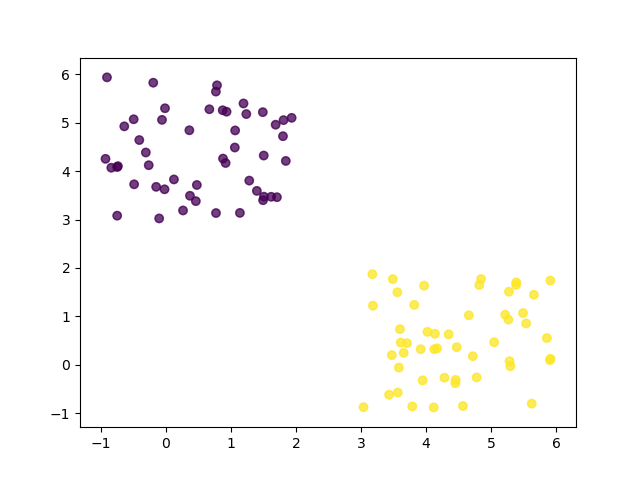
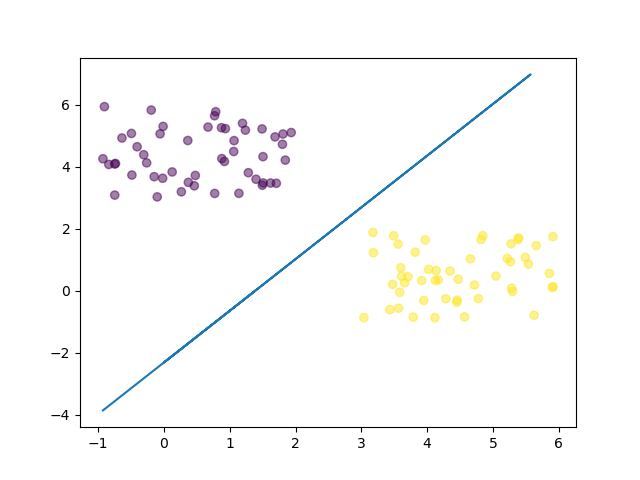
plotted the hyperplane line

diff --git a/test_svm.py b/test_svm.py
@@ -1,5 +1,5 @@
 from svm_basic import svm_basic
-from numpy import *
+import numpy as np
 import matplotlib.pyplot as plt
 
 def loadDataSet(fileName):
@@ -20,9 +20,16 @@ plt.savefig("UsingLabels.png")
 clf = svm_basic()
 b, weights = clf.fit(X, Y)
 
-hypotheses = clf.predict(mat(X))
+hypotheses = clf.predict(np.mat(X))
 
 labels = []
+x = np.arange(min([i[0] for i in X]), max([i[0] for i in X]) , 0.5)
+list_x = x.tolist()
+list_x = np.append(list_x, [0, -float(b)/float(weights[1])])
+x = np.array(list_x)
+y = []
+for i in range(0,len(x)):
+    y.append((-float(b) - (float(weights[1]) * list_x[i])) / float(weights[0]))
 
 for i in range(0,len(hypotheses)):
     if hypotheses[i] >= 0 :
@@ -30,5 +37,8 @@ for i in range(0,len(hypotheses)):
     else:
         labels.append(-1)
 
-plt.scatter([i[0] for i in X], [i[1] for i in X], c=labels, alpha=0.5)
+fig = plt.figure()
+ax = fig.add_subplot(111)
+ax.scatter([i[0] for i in X], [i[1] for i in X], c=labels, alpha=0.5)
+ax.plot(x, np.array(y))
 plt.savefig("UsingPredictions.png")
